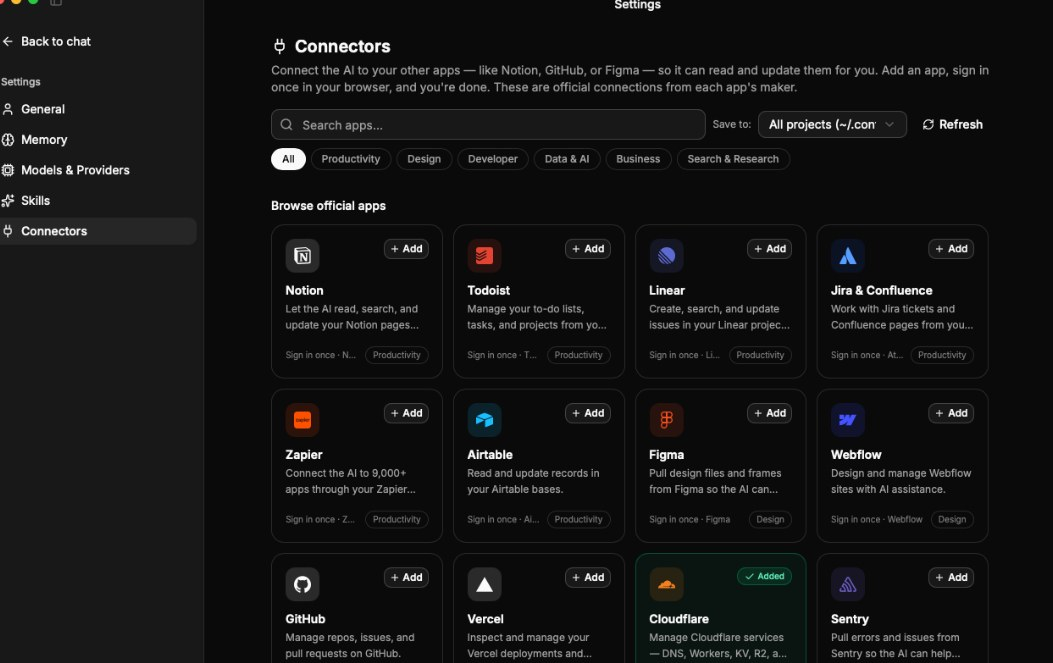
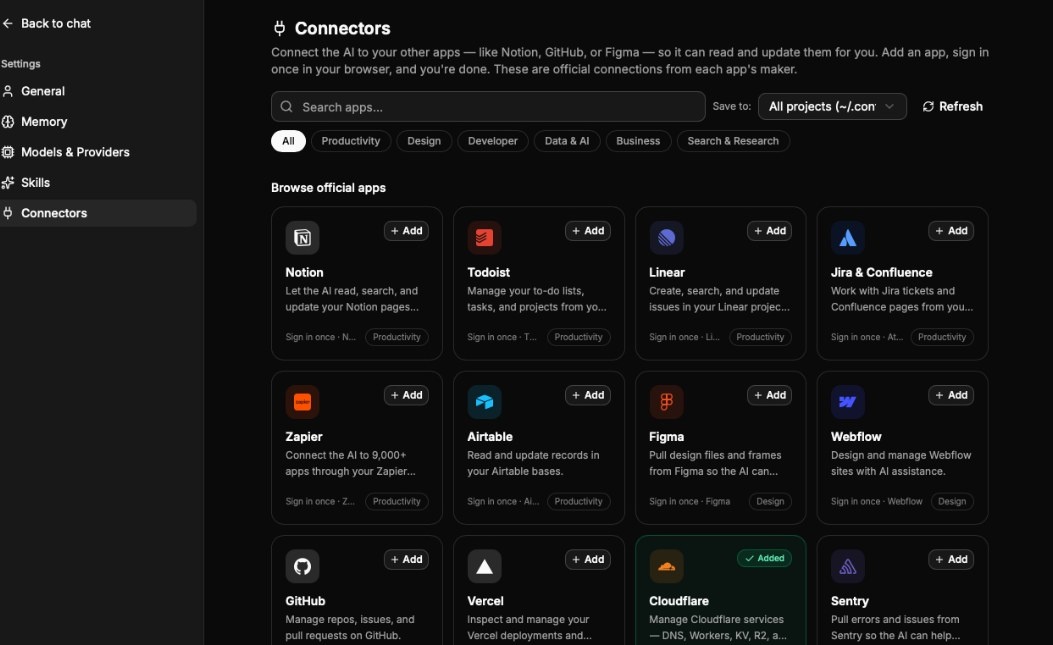
Crop remaining traffic lights off connectors screenshot; reframe flagship caption
The connectors screenshot still had macOS window-control dots peeking at
the top edge, missed in the earlier crop pass. Also reworded the flagship
caption to emphasize traceable step-by-step reasoning generally, rather
than framing it as a physics-specific use case.

diff --git a/src/content.ts b/src/content.ts
@@ -14,7 +14,7 @@ export const content = {
     {
       src: "/screenshot-diagram.jpg",
       alt: "ChatUI generating a labelled free-body diagram of a crane, showing the full load-supporting path and force equations",
-      caption: "Model Council reasoning through a physics problem, step by step",
+      caption: "Follow its reasoning step by step — not just the final answer",
       width: 1098,
       height: 664,
     },
@@ -23,7 +23,7 @@ export const content = {
       alt: "ChatUI's Connectors settings, showing available integrations including Notion, Linear, Figma, GitHub, and Cloudflare",
       caption: "Connect it to the tools you already use",
       width: 1053,
-      height: 663,
+      height: 645,
     },
     {
       src: "/screenshot-skills.jpg",
